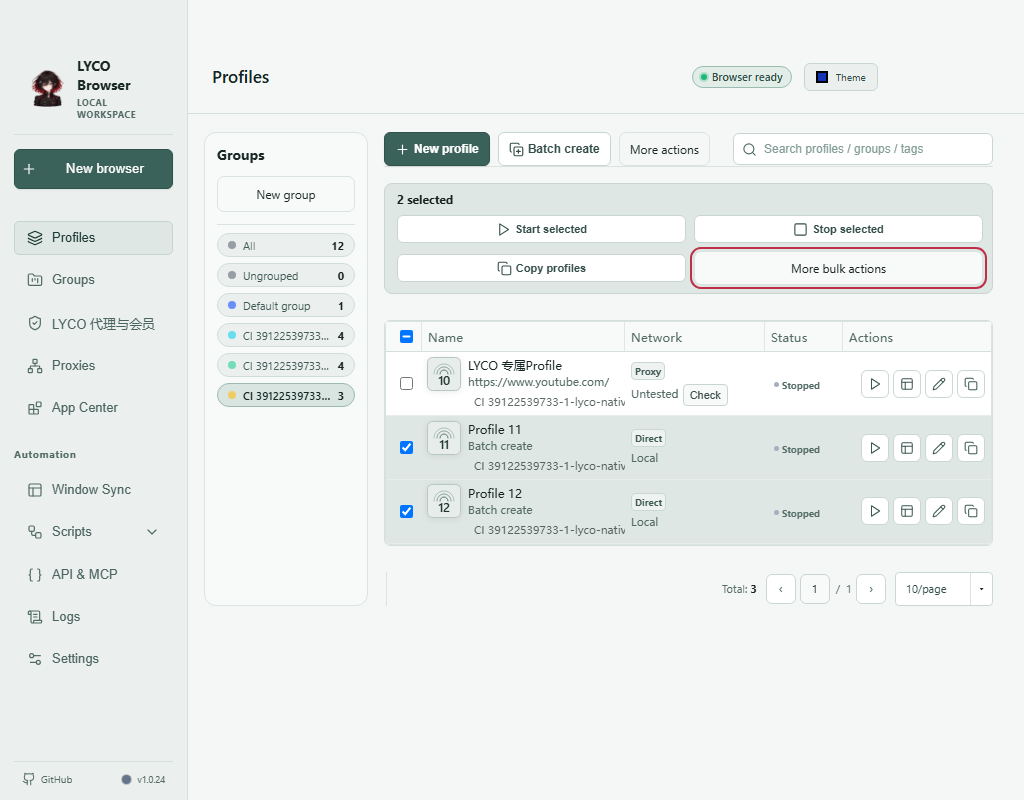
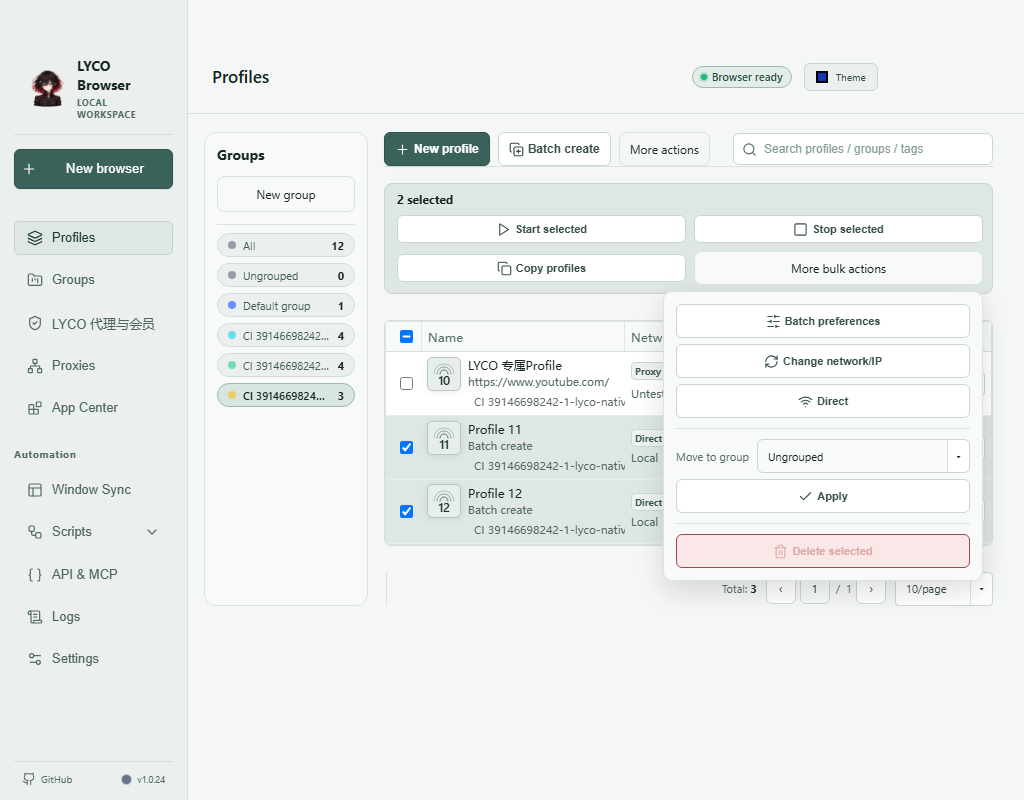
docs: 推荐已验收的多启动页桌面预览包

diff --git a/README.md b/README.md
@@ -4,15 +4,15 @@
 
 ## 下载与开始使用
 
-[下载已验收的桌面预览版](https://github.com/lilyco-42/lyco-browser/releases/tag/ci-a6e481d3fe67)
+[下载已验收的桌面预览版](https://github.com/lilyco-42/lyco-browser/releases/tag/ci-12ae5a9377ba)
 
 | 系统 | 下载 | 说明 |
 | --- | --- | --- |
-| Windows x64 | [安装 EXE](https://github.com/lilyco-42/lyco-browser/releases/download/ci-a6e481d3fe67/LYCO-Browser-Windows-x64-MVP.exe) · [便携 ZIP](https://github.com/lilyco-42/lyco-browser/releases/download/ci-a6e481d3fe67/LYCO-Browser-Windows-x64-MVP.zip) | 初次使用选安装版 |
-| macOS Apple Silicon | [DMG](https://github.com/lilyco-42/lyco-browser/releases/download/ci-a6e481d3fe67/LYCO-Browser-macOS-arm64-MVP.dmg) | ARM64，不适用于 Intel Mac |
-| Linux x64 | [tar.gz](https://github.com/lilyco-42/lyco-browser/releases/download/ci-a6e481d3fe67/LYCO-Browser-Linux-x64-MVP.tar.gz) | 桌面预览包 |
+| Windows x64 | [安装 EXE](https://github.com/lilyco-42/lyco-browser/releases/download/ci-12ae5a9377ba/LYCO-Browser-Windows-x64-MVP.exe) · [便携 ZIP](https://github.com/lilyco-42/lyco-browser/releases/download/ci-12ae5a9377ba/LYCO-Browser-Windows-x64-MVP.zip) | 初次使用选安装版 |
+| macOS Apple Silicon | [DMG](https://github.com/lilyco-42/lyco-browser/releases/download/ci-12ae5a9377ba/LYCO-Browser-macOS-arm64-MVP.dmg) | ARM64，不适用于 Intel Mac |
+| Linux x64 | [tar.gz](https://github.com/lilyco-42/lyco-browser/releases/download/ci-12ae5a9377ba/LYCO-Browser-Linux-x64-MVP.tar.gz) | 桌面预览包 |
 
[2 lines of base64/hex data omitted]
 
 1. 下载并安装或解压，打开 **LYCO Browser**。
 2. 如需使用本站线路，在 **LYCO 代理与会员** 登录已有网站账号并核对月卡。也可通过环境编辑器配置自有代理。
@@ -21,9 +21,9 @@
 
 ![GitHub Actions 实际安装后的环境工作台](docs/images/installed-workbench.png)
 
-Windows 的[正式提交验收](https://github.com/lilyco-42/lyco-browser/actions/runs/39122539733)已通过：预检、便携包和实际安装后各 26 项原生检查，另有 6 项安装检查。包括分组与批量操作、真实代理流量、两环境 Cookie/localStorage 隔离、重启后 Canvas 一致、身份文件损坏时拒绝访问目标网页、恢复备份后重新启动，以及卸载保留用户数据。截图来自该正式包的实际安装窗口。
+Windows 的[正式提交验收](https://github.com/lilyco-42/lyco-browser/actions/runs/39146698242)已通过：预检、便携包和实际安装后各 27 项原生检查，另有 6 项安装检查。包括分组与批量操作、双启动页在身份准备后打开且保留标签、真实代理流量、两环境 Cookie/localStorage 隔离、重启后 Canvas 一致、身份文件损坏时拒绝访问目标网页、恢复备份后重新启动，以及卸载保留用户数据。截图来自该正式包的实际安装窗口。
 
-macOS/Linux 已通过[同一产品提交的构建和打包检查](https://github.com/lilyco-42/lyco-browser/actions/runs/39122539591)，未据此宣称完成原生 UI 验收。预览包尚未配置商业代码签名。多启动网址、会话恢复及其他未覆盖路径仍需验证，完整范围见[受管代理安全边界](docs/SECURITY.md)。
+macOS/Linux 已通过[同一产品提交的构建和打包检查](https://github.com/lilyco-42/lyco-browser/actions/runs/39146698195)，未据此宣称完成原生 UI 验收。预览包尚未配置商业代码签名。本轮已验证双启动页；原生会话恢复、任意新标签的首次脚本时序及其他未覆盖路径仍需验证，完整范围见[受管代理安全边界](docs/SECURITY.md)。
 
 
 > **运行及随包资源分发授权已确认（2026-10-17）：** 产品所有者明确确认既有 Wayfern 书面授权涵盖 LYCO 运行、分发及随包 Windows/macOS 字体资源再分发，桌面工作流解除草稿分发限制。此记录依据所有者确认，不公开授权文件或商业条款，也不向其他项目授予相同权利。当前提交必须通过对应 Actions 门禁后才发布 CI 预览包；第三方版权、许可与源码来源继续保留，旧草稿不会自动发布。

diff --git a/docs/SECURITY.md b/docs/SECURITY.md
@@ -26,8 +26,9 @@ ordinary direct route. It is not an invisibility or anti-fraud bypass feature.
   before the original engine cleans the failed start. The real two-page test
   samples navigator values and a shape-only canvas in each page's first script,
   keeps both configured tabs open, and repeats after reopening the environment.
-  This new path still requires the current commit's native gate. Native session
-  restore and arbitrary new-tab timing remain unverified; session restore can
+  The [12ae5a9 Windows workflow](https://github.com/lilyco-42/lyco-browser/actions/runs/39146698242)
+  verifies this two-page flow in preflight, portable and installed binaries.
+  Native session restore and arbitrary new-tab timing remain unverified; session restore can
   still load before post-launch identity and needs a separate correction.
 - A paid, managed profile requires current entitlement and a live loopback
   Mihomo proxy before a browser window can launch.
